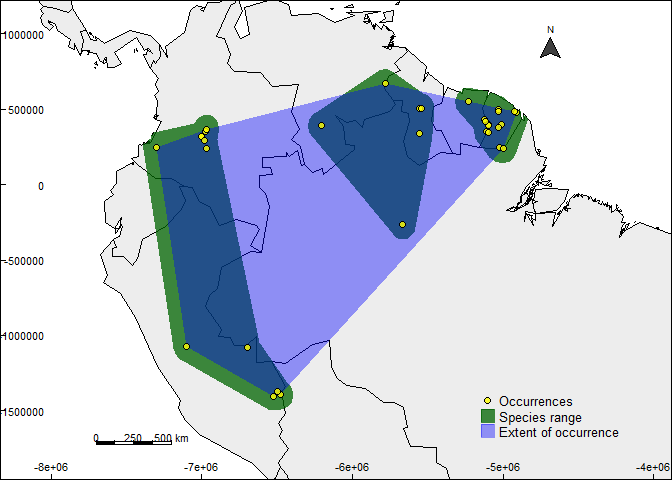
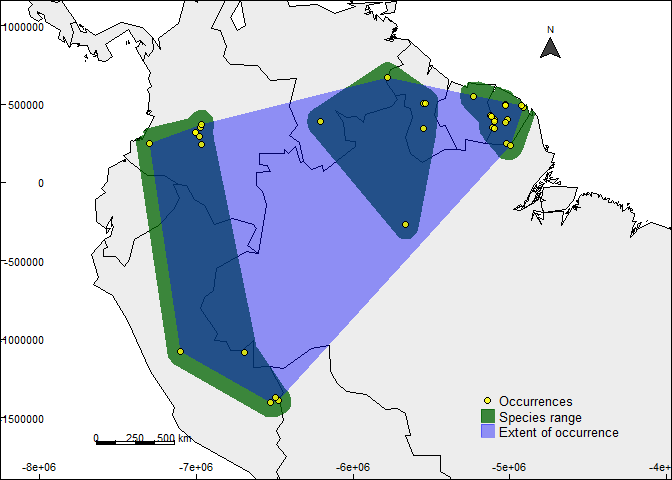
V 0.0.41 readme improvement

diff --git a/README.md b/README.md
@@ -109,13 +109,13 @@ An example of the use of this function is written below.
 species <- name_lookup(query = "Dasypus kappleri",
                        rank="species", return = "data") # information about the species
 
-occ_count(taxonKey = species$key[10], georeferenced = TRUE) # testing if keys return records
+occ_count(taxonKey = species$key[14], georeferenced = TRUE) # testing if keys return records
 ```
 
     ## [1] 44
 
 ``` r
-key <- species$key[10] # using species key that return information
+key <- species$key[14] # using species key that return information
 
 occ <- occ_search(taxonKey = key, return = "data") # using the taxon key
 
@@ -228,13 +228,13 @@ Following there is an example in wich administrative areas will be selected usin
 species <- name_lookup(query = "Dasypus kappleri",
                        rank="species", return = "data") # information about the species
 
-occ_count(taxonKey = species$key[10], georeferenced = TRUE) # testing if keys return records
+occ_count(taxonKey = species$key[14], georeferenced = TRUE) # testing if keys return records
 ```
 
     ## [1] 44
 
 ``` r
-key <- species$key[10] # using species key that return information
+key <- species$key[14] # using species key that return information
 
 occ <- occ_search(taxonKey = key, return = "data") # using the taxon key
 
@@ -337,13 +337,13 @@ An example of using both occurrences and administrative areas for creating speci
 species <- name_lookup(query = "Dasypus kappleri",
                        rank="species", return = "data") # information about the species
 
-occ_count(taxonKey = species$key[10], georeferenced = TRUE) # testing if keys return records
+occ_count(taxonKey = species$key[14], georeferenced = TRUE) # testing if keys return records
 ```
 
     ## [1] 44
 
 ``` r
-key <- species$key[10] # using species key that return information
+key <- species$key[14] # using species key that return information
 
 occ <- occ_search(taxonKey = key, return = "data") # using the taxon key
 
@@ -400,13 +400,13 @@ With the example provided below, a species range will be constructed using conve
 species <- name_lookup(query = "Dasypus kappleri",
 rank="species", return = "data") # information about the species
 
-occ_count(taxonKey = species$key[10], georeferenced = TRUE) # testing if keys return records
+occ_count(taxonKey = species$key[14], georeferenced = TRUE) # testing if keys return records
 ```
 
     ## [1] 44
 
 ``` r
-key <- species$key[10] # using species key that return information
+key <- species$key[14] # using species key that return information
 
 occ <- occ_search(taxonKey = key, return = "data", limit = 2000) # using the taxon key
 
@@ -732,7 +732,7 @@ grid <- TRUE # grid
 legend <- TRUE # leggend of objects included
 scale <- TRUE # scale bar
 north <- TRUE # north arrow
-zoom1 <- 1.3 # normally 1
+zoom1 <- 1.25 # normally 1
 
 
 # creating the species range figure
